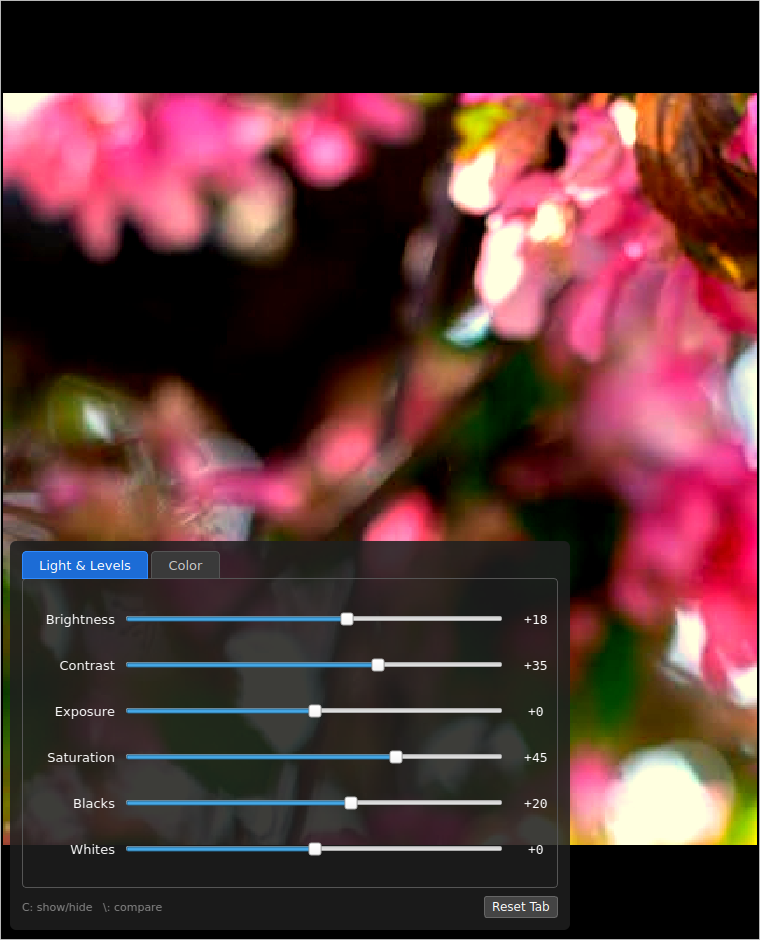
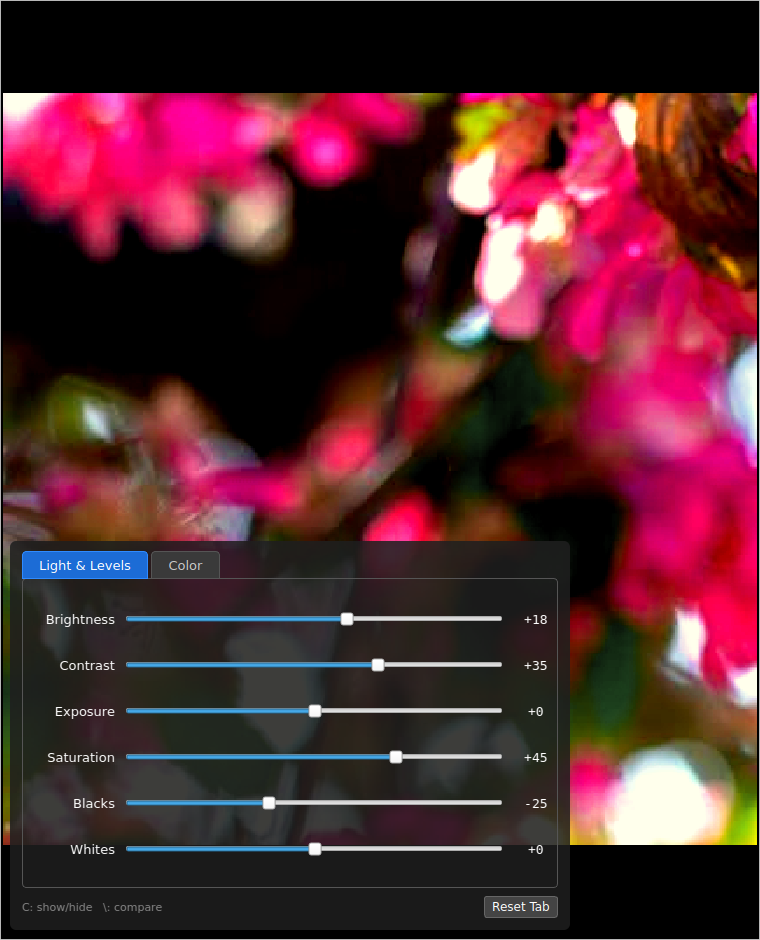
Adjustment fixes: slider double-click reset, Blacks direction, detailed summary
- Double-clicking any adjustment slider now snaps it back to 0 (ResetSlider).
- Fix the Blacks slider direction: up lifts shadows lighter, down crushes
  them darker (was inverted).
- The metadata overlay now lists the specific non-zero adjustments
  (e.g. "brightness +18, contrast +35 · temp +25, Magenta sat +70") instead
  of the bare labels "adjustments" / "color".

Updates the help overlay note and adds tests for the blacks direction and the
double-click reset.

Claude-Session: https://claude.ai/code/session_011JNrVuatWKYkE52ziKyYGT

diff --git a/src/ImageEdit.cpp b/src/ImageEdit.cpp
@@ -189,7 +189,20 @@ void AdjustEdit::fromJson(const QJsonObject &obj) {
 }
 
 QString AdjustEdit::summary() const {
-    return ImageAdjust::isNeutral(m_params) ? QString() : QStringLiteral("adjustments");
+    if (ImageAdjust::isNeutral(m_params)) return QString();
+    QStringList parts;
+    auto add = [&](const char *label, int v) {
+        if (v != 0) parts << QStringLiteral("%1 %2%3").arg(QLatin1String(label),
+                                                           v > 0 ? QStringLiteral("+") : QString(),
+                                                           QString::number(v));
+    };
+    add("brightness", m_params.brightness);
+    add("contrast",   m_params.contrast);
+    add("exposure",   m_params.exposure);
+    add("saturation", m_params.saturation);
+    add("blacks",     m_params.blacks);
+    add("whites",     m_params.whites);
+    return parts.join(QStringLiteral(", "));
 }
 
 // ---------------------------------------------------------------------------
@@ -227,7 +240,23 @@ void ColorEdit::fromJson(const QJsonObject &obj) {
 }
 
 QString ColorEdit::summary() const {
-    return ImageAdjust::isNeutral(m_params) ? QString() : QStringLiteral("color");
+    if (ImageAdjust::isNeutral(m_params)) return QString();
+    QStringList parts;
+    auto add = [&](const QString &label, int v) {
+        if (v != 0) parts << QStringLiteral("%1 %2%3").arg(label,
+                                                           v > 0 ? QStringLiteral("+") : QString(),
+                                                           QString::number(v));
+    };
+    add(QStringLiteral("temp"),  m_params.temperature);
+    add(QStringLiteral("tint"),  m_params.tint);
+    add(QStringLiteral("red"),   m_params.red);
+    add(QStringLiteral("green"), m_params.green);
+    add(QStringLiteral("blue"),  m_params.blue);
+    // Per-hue saturation bands, named and suffixed so they don't read like the
+    // red/green/blue channel gains above.
+    for (int i = 0; i < 8; ++i)
+        add(QString::fromLatin1(ImageAdjust::hueBand(i).name) + QStringLiteral(" sat"), m_params.hues[i]);
+    return parts.join(QStringLiteral(", "));
 }
 
 // ---------------------------------------------------------------------------

diff --git a/tests/test_image_adjust.cpp b/tests/test_image_adjust.cpp
@@ -20,6 +20,7 @@ private slots:
     void channelGain_boostsThatChannel();
     void hueBand_boostsMatchingHueSaturation();
     void hueBand_leavesOtherHuesAndNeutralsAlone();
+    void blacks_upLightensDownDarkens();
     void edits_jsonRoundTrip();
     void manifest_keepsAdjustColorBetweenCropAndBw();
     void manifest_renderAfterCropSkipsOrientationAndCrop();
@@ -126,7 +127,10 @@ void ImageAdjustTest::edits_jsonRoundTrip() {
     ra.fromJson(a.toJson());
     QImage src = solid(16, 16, QColor(90, 140, 200));
     QCOMPARE(ra.apply(src), a.apply(src));
-    QCOMPARE(ra.summary(), QStringLiteral("adjustments"));
+    // The summary lists the specific, non-zero adjustments (not a bare label).
+    QCOMPARE(ra.summary(), a.summary());
+    QVERIFY(ra.summary().contains("brightness +10"));
+    QVERIFY(ra.summary().contains("blacks -15"));
 
     ColorEdit c;
     ColorParams cp; cp.temperature = -25; cp.tint = 15; cp.red = 8; cp.green = -8; cp.blue = 20;
@@ -136,7 +140,19 @@ void ImageAdjustTest::edits_jsonRoundTrip() {
     ColorEdit rc;
     rc.fromJson(c.toJson());
     QCOMPARE(rc.apply(src), c.apply(src));
-    QCOMPARE(rc.summary(), QStringLiteral("color"));
+    QCOMPARE(rc.summary(), c.summary());
+    QVERIFY(rc.summary().contains("temp -25"));
+    QVERIFY(rc.summary().contains("sat"));   // a per-hue band is named with a "sat" suffix
+}
+
+// Blacks: up (+) lifts shadows lighter; down (−) crushes them darker.
+void ImageAdjustTest::blacks_upLightensDownDarkens() {
+    QImage src = solid(4, 4, QColor(40, 40, 40));   // a dark grey
+    AdjustParams up;   up.blacks = 80;
+    AdjustParams down; down.blacks = -80;
+    const int base = src.pixelColor(1, 1).red();
+    QVERIFY(ImageAdjust::applyTone(src, up).pixelColor(1, 1).red()   > base);
+    QVERIFY(ImageAdjust::applyTone(src, down).pixelColor(1, 1).red() < base);
 }
 
 void ImageAdjustTest::manifest_keepsAdjustColorBetweenCropAndBw() {

diff --git a/src/AdjustPanel.cpp b/src/AdjustPanel.cpp
@@ -7,6 +7,7 @@
 #include <QGridLayout>
 #include <QHBoxLayout>
 #include <QLabel>
+#include <QMouseEvent>
 #include <QPainter>
 #include <QPushButton>
 #include <QSettings>
@@ -18,6 +19,22 @@
 namespace {
 const char *kToneNames[6]  = {"Brightness", "Contrast", "Exposure", "Saturation", "Blacks", "Whites"};
 const char *kColorNames[5] = {"Temperature", "Tint", "Red", "Green", "Blue"};
+
+// A slider that snaps back to its default (0) on a double-click, so any
+// adjustment can be reset without dragging it precisely to centre.
+class ResetSlider : public QSlider {
+public:
+    explicit ResetSlider(Qt::Orientation o, QWidget *parent = nullptr) : QSlider(o, parent) {}
+protected:
+    void mouseDoubleClickEvent(QMouseEvent *event) override {
+        if (event->button() == Qt::LeftButton) {
+            setValue(0);
+            event->accept();
+        } else {
+            QSlider::mouseDoubleClickEvent(event);
+        }
+    }
+};
 
 const char *kBtnStyle =
     "QPushButton { color: white; background: #444; border: 1px solid #666;"
@@ -99,7 +116,7 @@ QWidget *AdjustPanel::buildToneTab() {
         name->setStyleSheet("color: white; font-size: 13px;");
         grid->addWidget(name, i, 0);
 
-        auto *slider = new QSlider(Qt::Horizontal, tab);
+        auto *slider = new ResetSlider(Qt::Horizontal, tab);
         slider->setRange(-100, 100);
         slider->setValue(0);
         slider->setSingleStep(1);
@@ -140,7 +157,7 @@ QWidget *AdjustPanel::buildColorTab() {
         lbl->setStyleSheet("color: white; font-size: 13px;");
         grid->addWidget(lbl, row, 1);
 
-        auto *slider = new QSlider(Qt::Horizontal, tab);
+        auto *slider = new ResetSlider(Qt::Horizontal, tab);
         slider->setRange(-100, 100);
         slider->setValue(0);
         slider->setSingleStep(1);

diff --git a/src/ImageAdjust.cpp b/src/ImageAdjust.cpp
@@ -79,19 +79,22 @@ QImage ImageAdjust::applyTone(const QImage &src, const AdjustParams &p) {
 
     // Precompute the per-channel curve coefficients once.
     const double exposure = std::pow(2.0, p.exposure / 100.0);   // ±1 stop at ±100
-    const double inBlack  = p.blacks / 100.0 * 0.5;              // levels black point
-    double       inWhite  = 1.0 - p.whites / 100.0 * 0.5;        // levels white point
-    double       span     = inWhite - inBlack;
-    if (span < 1e-3) span = 1e-3;                               // guard divide-by-zero
+    double       inWhite  = 1.0 - p.whites / 100.0 * 0.5;        // white point (up = brighter)
+    if (inWhite < 0.05) inWhite = 0.05;                          // guard divide-by-zero
+    const double blacks   = p.blacks / 100.0 * 0.5;             // up = lighter, down = darker
     const double bright   = p.brightness / 100.0 * 0.5;          // additive
     const double contrast = 1.0 + p.contrast / 100.0;            // 0..2 around mid-grey
     const double sat      = 1.0 + p.saturation / 100.0;          // 0..2 around luma
 
     auto tone = [&](double v) {
         v *= exposure;
-        v = (v - inBlack) / span;             // black/white level remap
+        v = v / inWhite;                          // white level (up brightens highlights)
+        if (blacks > 0.0)
+            v = blacks + v * (1.0 - blacks);      // lift the black floor → lighter blacks
+        else if (blacks < 0.0)
+            v = (v + blacks) / (1.0 + blacks);    // raise the input black point → darker
         v += bright;
-        v = (v - 0.5) * contrast + 0.5;       // contrast around mid-grey
+        v = (v - 0.5) * contrast + 0.5;           // contrast around mid-grey
         return v;
     };
 

diff --git a/tests/test_adjust_panel.cpp b/tests/test_adjust_panel.cpp
@@ -21,6 +21,7 @@ private slots:
     void remembersActiveTab_acrossHideShow();
     void toneEdit_emitsAdjustSignal();
     void colorEdit_emitsColorSignal();
+    void doubleClick_resetsSliderToZero();
 };
 
 void AdjustPanelTest::params_roundTrip() {
@@ -104,6 +105,24 @@ void AdjustPanelTest::colorEdit_emitsColorSignal() {
     colorSliders.last()->setValue(70);
     QCOMPARE(colorSpy.count(), 2);
     QCOMPARE(colorSpy.at(1).at(0).value<ColorParams>().hues[7], 70);
+}
+
+// Double-clicking any adjustment slider snaps it back to its default of 0.
+void AdjustPanelTest::doubleClick_resetsSliderToZero() {
+    AdjustPanel panel;
+    auto *tabs = panel.findChild<QTabWidget *>();
+    QVERIFY(tabs);
+    auto *slider = tabs->widget(0)->findChildren<QSlider *>().first();   // brightness
+
+    slider->setValue(60);
+    QCOMPARE(slider->value(), 60);
+
+    QSignalSpy spy(&panel, &AdjustPanel::adjustParamsChanged);
+    QTest::mouseDClick(slider, Qt::LeftButton, Qt::NoModifier,
+                       slider->rect().center());
+    QCOMPARE(slider->value(), 0);
+    QVERIFY(spy.count() >= 1);
+    QCOMPARE(spy.last().at(0).value<AdjustParams>().brightness, 0);
 }
 
 int main(int argc, char *argv[]) {

diff --git a/src/HelpOverlay.cpp b/src/HelpOverlay.cpp
@@ -72,7 +72,7 @@ void HelpOverlay::paintEvent(QPaintEvent *) {
         "\n"
         "Mouse Controls\n"
         "\n"
-        "  Double Click    Reset crop (in crop-mode)\n"
+        "  Double Click    Reset crop (in crop-mode) / reset an adjustment slider\n"
         "  Scroll wheel    Zoom (anchored to cursor)");
 
     // Left-align at 1/3 width so monospace columns stay intact; center vertically
